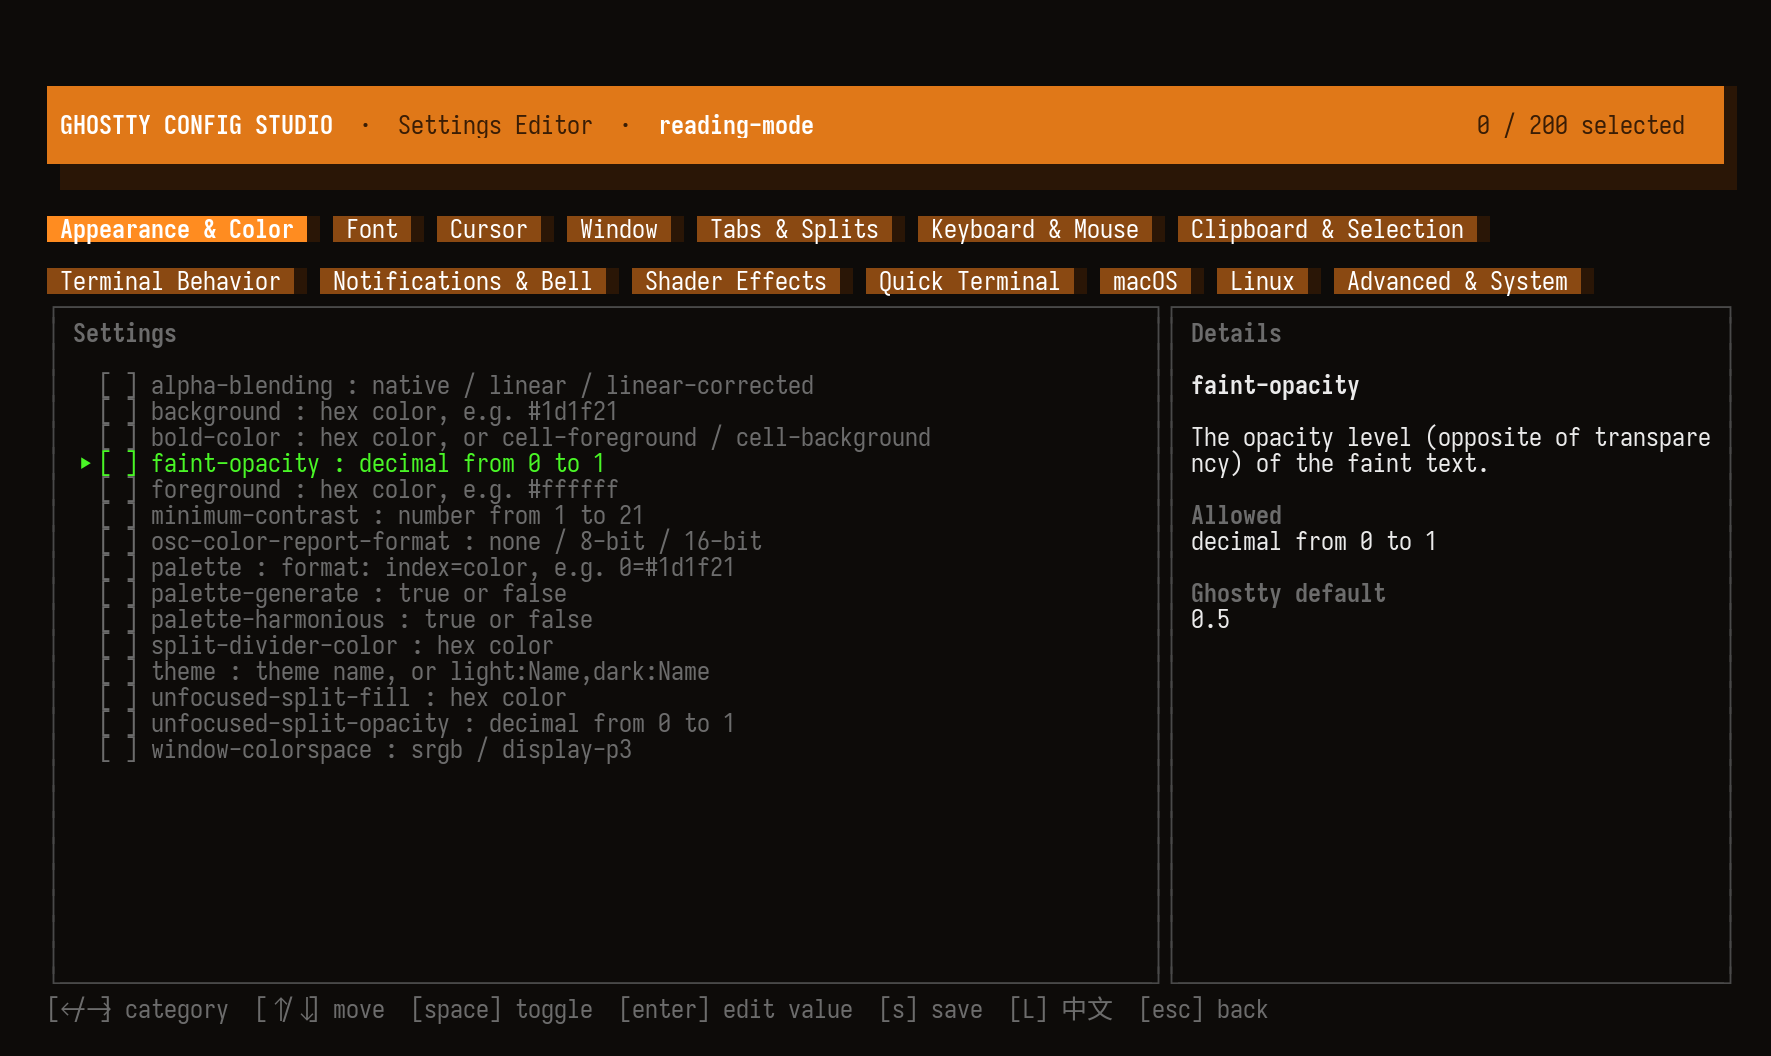
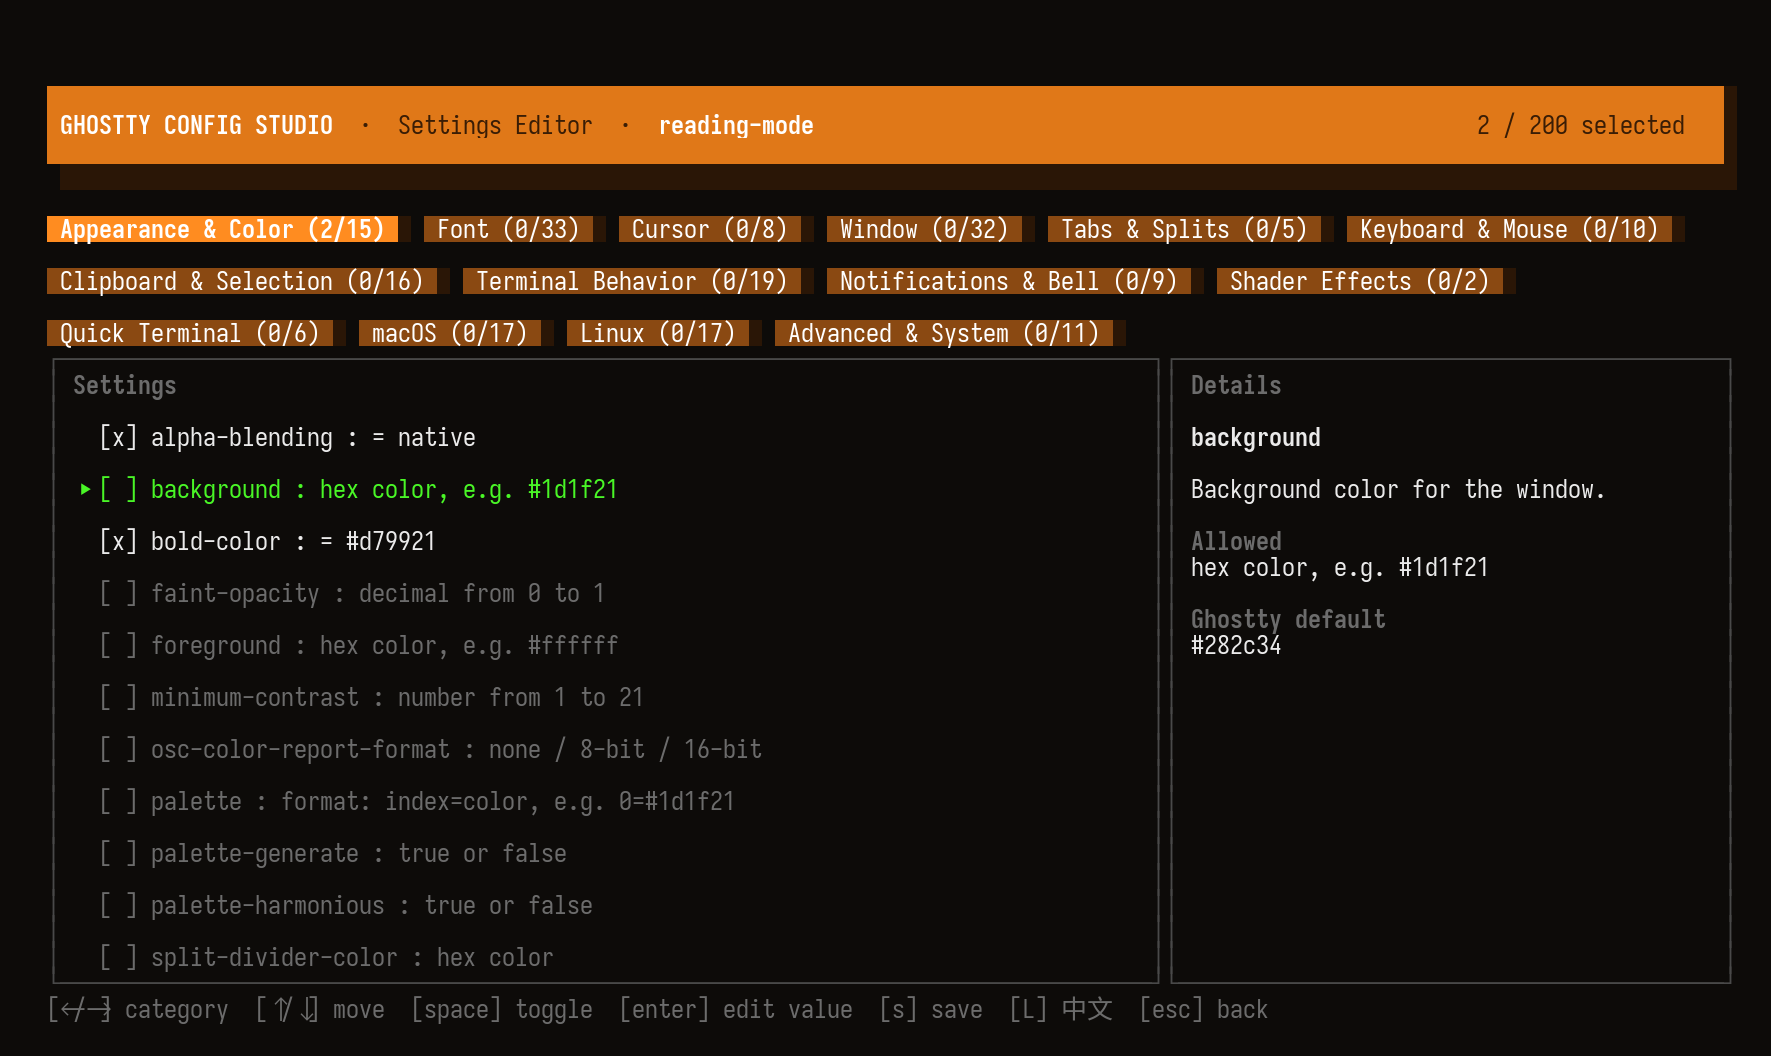
v0.1.7: show each category's tally on its tab
Fourteen pages, and no way to tell which of them you had touched short of
walking all of them. Each tab now carries (checked/total): 外觀與顏色 (2/15).

The site's editor captures were retaken, since they still showed the old tabs
and the old row density.

diff --git a/tui/editor.go b/tui/editor.go
@@ -76,6 +76,19 @@ func rowsFor(cat string) []keyInfo {
 	return out
 }
 
+// tabCount is the "(3/27)" a tab carries: how many of that page's settings
+// are ticked, out of how many it has. Without it the only way to find where
+// your changes are is to walk all fourteen pages.
+func (e *editorState) tabCount(cat string) (checked, total int) {
+	rows := rowsFor(cat)
+	for _, k := range rows {
+		if _, ok := e.checked[k.key]; ok {
+			checked++
+		}
+	}
+	return checked, len(rows)
+}
+
 func (e *editorState) curCat() string     { return categoryOrder[e.catIndex] }
 func (e *editorState) curRows() []keyInfo { return rowsFor(e.curCat()) }
 
@@ -433,7 +446,9 @@ func (e *editorState) renderTabs(width int) []string {
 		if i == e.catIndex {
 			style = tabActiveStyle
 		}
-		tab := style.Render(" "+categoryLabel(c)+" ") + tabShadowStyle.Render(" ")
+		checked, total := e.tabCount(c)
+		label := categoryLabel(c) + " (" + itoa(checked) + "/" + itoa(total) + ")"
+		tab := style.Render(" "+label+" ") + tabShadowStyle.Render(" ")
 		tw := lipgloss.Width(tab)
 		if lineW > 0 && lineW+1+tw > width {
 			rows = append(rows, line, "") // blank spacer between tab rows

diff --git a/tui/main.go b/tui/main.go
@@ -1651,7 +1651,7 @@ func (m model) View() string {
 // version is stamped by hand at release time and must match the tag the
 // Homebrew formula points at. Reported by `ghostty-tui --version` so a bug
 // report can say which build it came from.
-const version = "0.1.6"
+const version = "0.1.7"
 
 func main() {
 	if len(os.Args) > 1 && (os.Args[1] == "--version" || os.Args[1] == "-v") {
